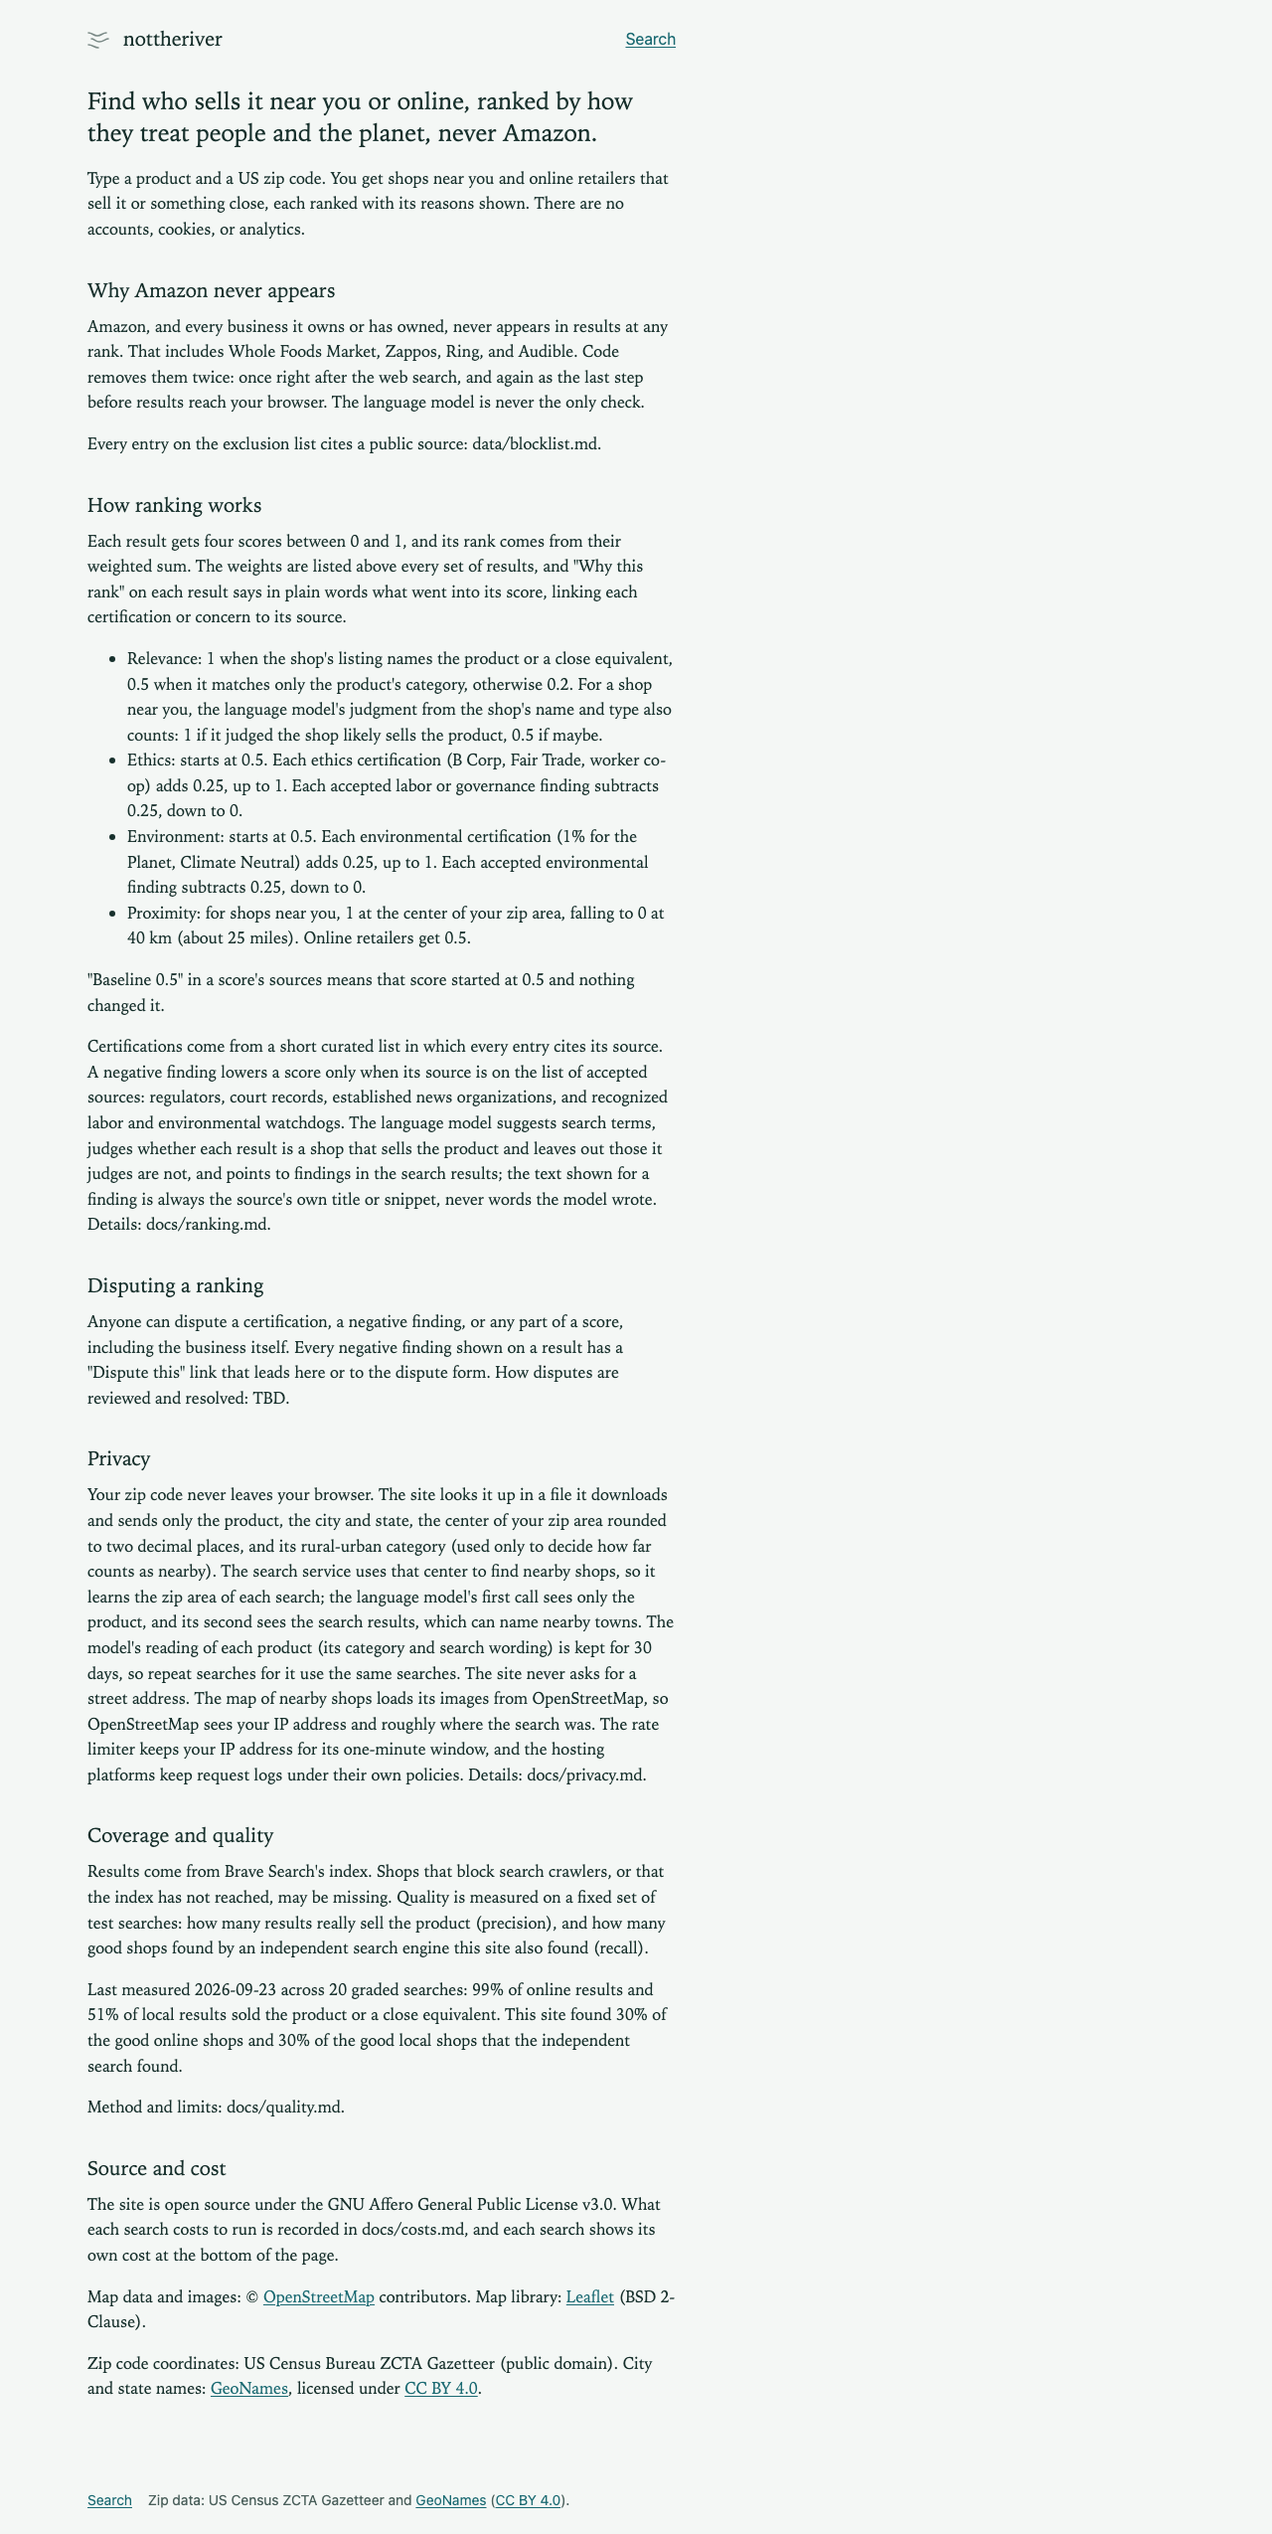
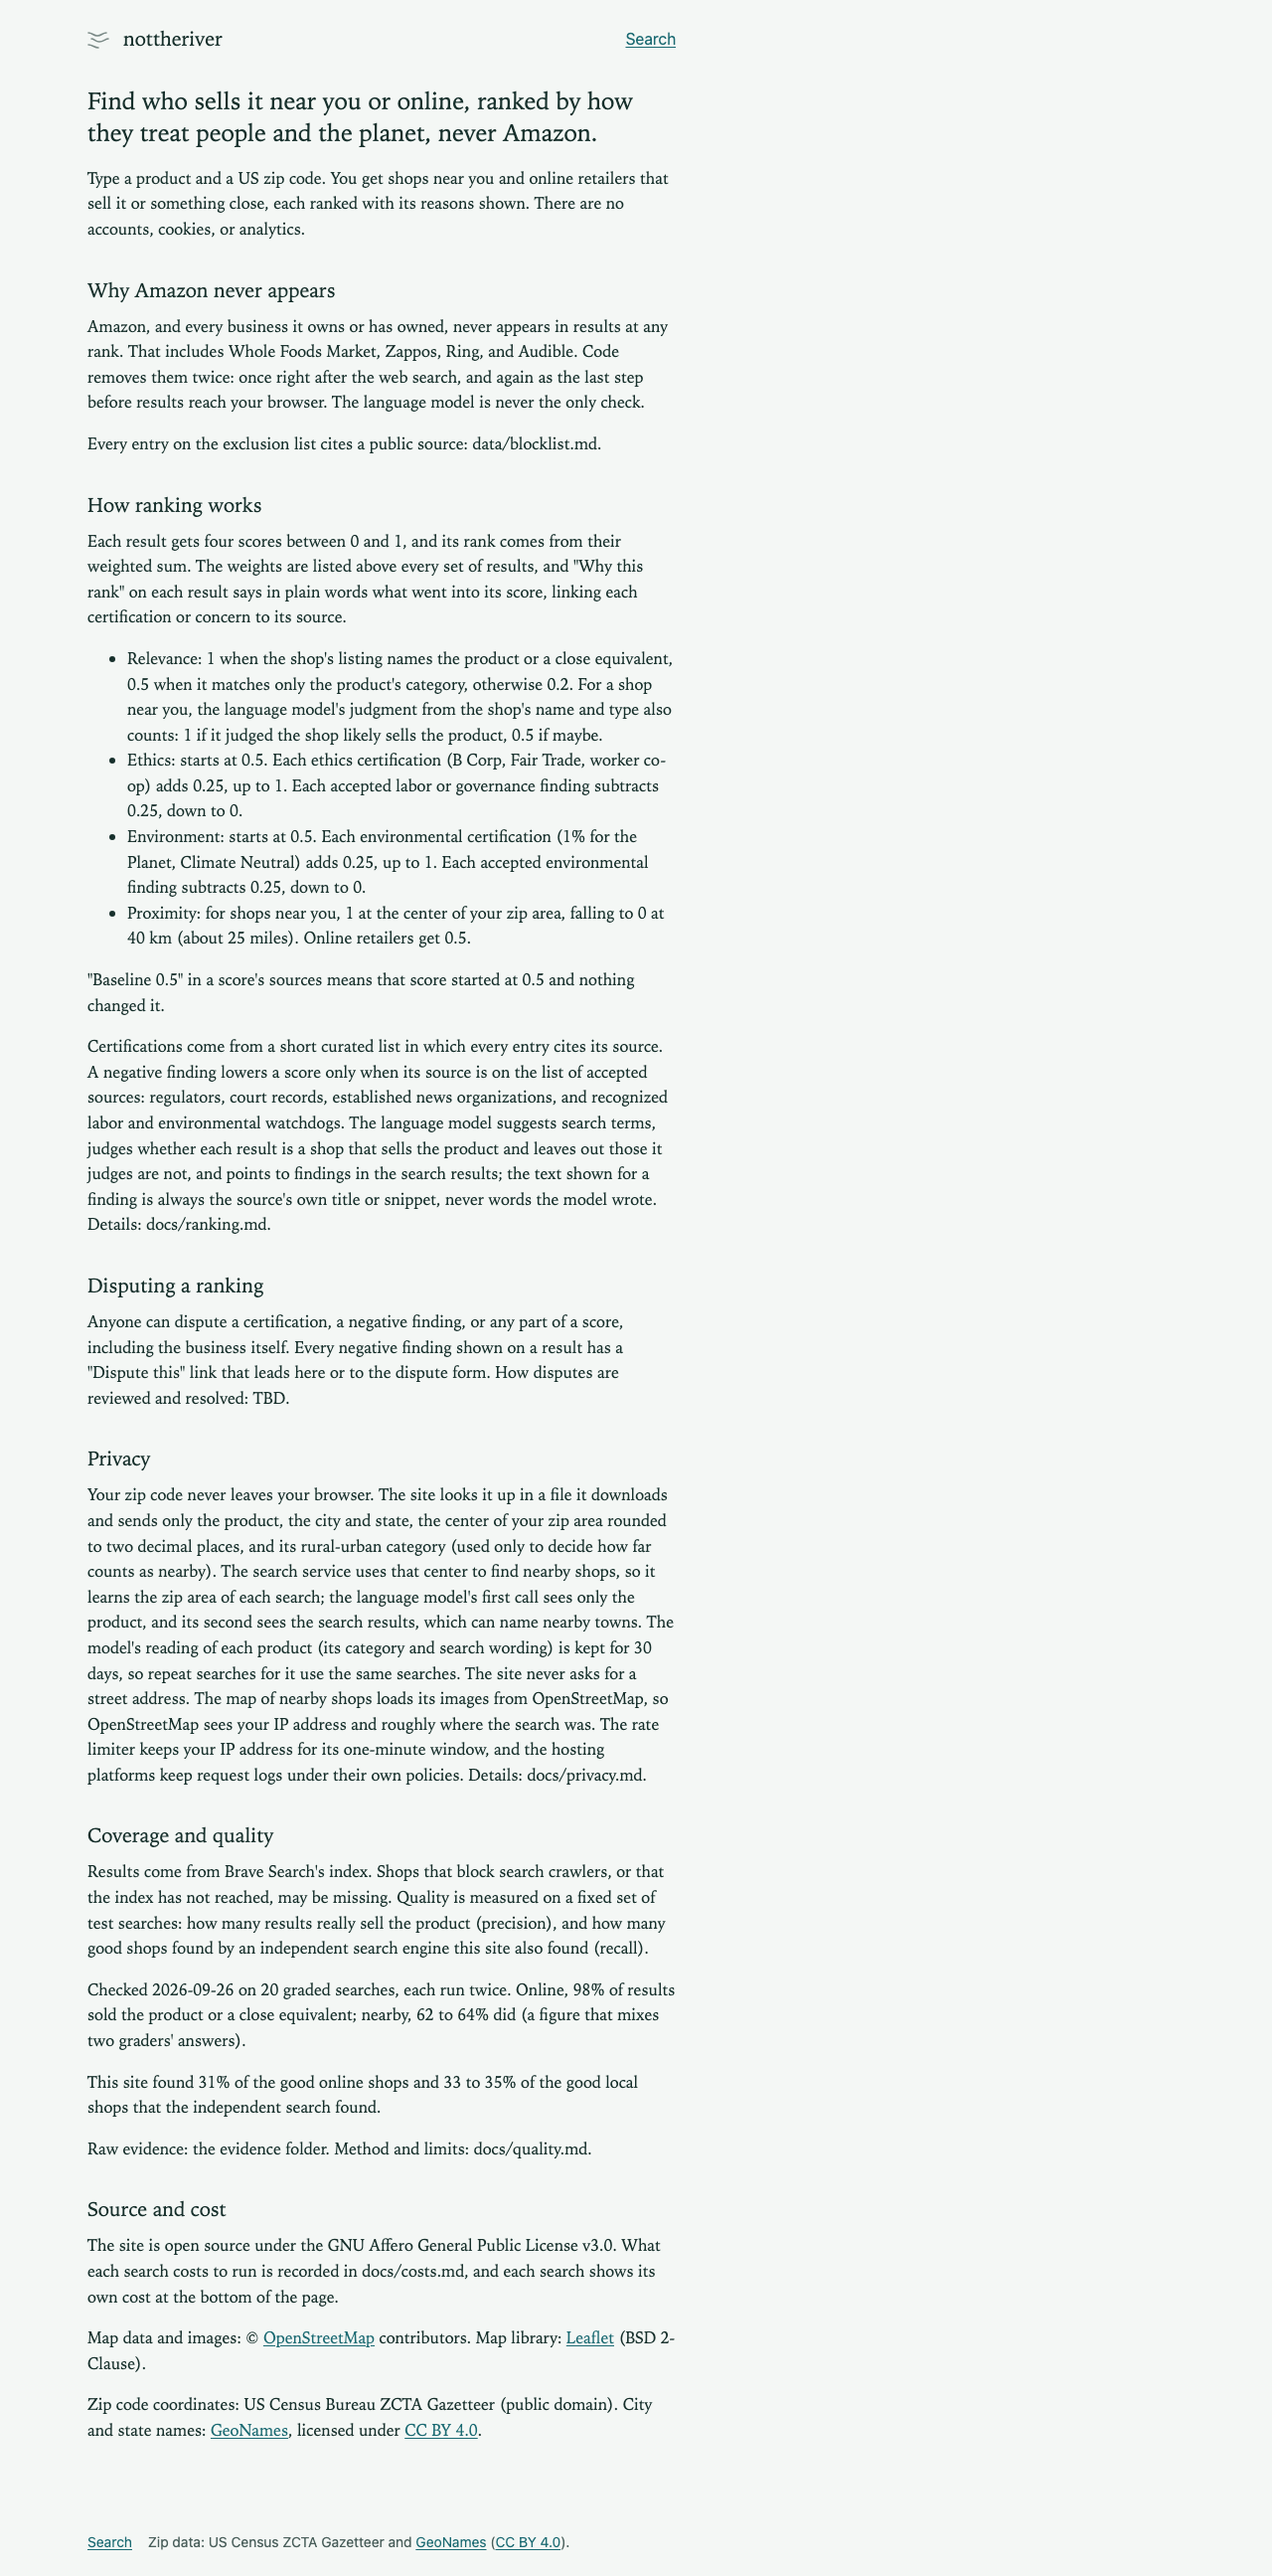
feat(about): short quality summary with a link to the raw evidence
Two plain lines from both eval20-0925 runs (local precision as a range, with a
note that it mixes two graders' answers; recall kept), a "Raw evidence" link to
the run's folder, and an index of every graded run in docs/evidence/quality.

Claude-Session: https://claude.ai/code/session_01RPrsPCj17R4DAFxxExA59E

Changed region(s): [[0.0625, 0.031, 0.5312, 0.9608]]

diff --git a/src/about.ts b/src/about.ts
@@ -1,31 +1,53 @@
 import { disputeUrl, repoUrl, siteName } from './config';
 import quality from './quality.json';
 
-// Fractions in [0, 1] from the latest evaluation run; null until one has run.
+// A figure is a fraction in [0, 1]; a [low, high] pair when two graded runs of the same eval rounded
+// to different percentages (an eval now runs twice, operator ruling 2026-09-26).
+export type Figure = number | [number, number];
+
+// null until an evaluation has run.
 export interface QualityMeasure {
   date: string; // YYYY-MM-DD
   searches: number; // searches graded; a run may grade a sample of those it made
-  precision: { online: number; local: number };
-  recall: { online: number; local: number };
+  precision: { online: Figure; local: Figure };
+  recall: { online: Figure; local: Figure };
+  evidence: string; // this run's evidence folder, e.g. docs/evidence/quality/eval20-0925
 }
 
-const pct = (n: number) => `${Math.round(n * 100)}%`;
+const whole = (n: number) => Math.round(n * 100);
+const fig = (f: Figure) => (Array.isArray(f) ? `${whole(f[0])} to ${whole(f[1])}%` : `${whole(f)}%`);
 
-export function coverageText(measured: QualityMeasure | null): string {
+export function precisionText(measured: QualityMeasure | null): string {
   if (!measured) return 'Not yet measured.';
-  const { date, searches, precision, recall } = measured;
+  const { date, searches } = measured;
+  const { online, local } = measured.precision;
   return (
-    `Last measured ${date} across ${searches} graded searches: ${pct(precision.online)} of online results and ${pct(precision.local)} of local ` +
-    `results sold the product or a close equivalent. This site found ${pct(recall.online)} of the good online ` +
-    `shops and ${pct(recall.local)} of the good local shops that the independent search found.`
+    `Checked ${date} on ${searches} graded searches, each run twice. Online, ${fig(online)} of results sold the product or a close ` +
+    `equivalent; nearby, ${fig(local)} did (a figure that mixes two graders' answers).`
   );
+}
+
+export function recallText(measured: QualityMeasure | null): string {
+  if (!measured) return '';
+  const { online, local } = measured.recall;
+  return `This site found ${fig(online)} of the good online shops and ${fig(local)} of the good local shops that the independent search found.`;
 }
 
 document.title = `About ${siteName}`;
 for (const el of document.querySelectorAll('[data-site-name]')) el.textContent = siteName;
 
+const measured = (quality as { measured: QualityMeasure | null }).measured;
+
 const quote = document.querySelector('[data-quality]');
-if (quote) quote.textContent = coverageText((quality as { measured: QualityMeasure | null }).measured);
+if (quote) quote.textContent = precisionText(measured);
+const recallEl = document.querySelector<HTMLElement>('[data-quality-recall]');
+if (recallEl) {
+  recallEl.textContent = recallText(measured);
+  recallEl.hidden = !measured;
+}
+// The HTML points at the index of all runs; once measured, point at that run's own folder instead.
+const evidenceLink = document.querySelector<HTMLAnchorElement>('[data-evidence-link]');
+if (evidenceLink && measured) evidenceLink.dataset.repoPath = `tree/main/${measured.evidence}`;
 
 // Without a repo URL (dev, e2e) doc references stay plain text and repo-only sentences stay hidden.
 if (repoUrl) {

diff --git a/src/about.test.ts b/src/about.test.ts
@@ -25,9 +25,38 @@ describe('about page', () => {
   });
 
   it('states the measured precision and recall with the date', async () => {
-    await load({ date: '2026-10-01', searches: 20, precision: { online: 0.8, local: 0.625 }, recall: { online: 0.5, local: 0.4 } });
+    await load({ date: '2026-10-01', searches: 20, precision: { online: 0.8, local: 0.625 }, recall: { online: 0.5, local: 0.4 }, evidence: 'docs/evidence/quality/eval20-0925' });
     const text = $('[data-quality]').textContent!;
-    for (const part of ['2026-10-01', '20 graded searches', '80%', '63%', '50%', '40%']) expect(text).toContain(part);
+    for (const part of ['2026-10-01', '20 graded searches', '80%', '63%', "mixes two graders' answers"]) expect(text).toContain(part);
+    const recall = $('[data-quality-recall]').textContent!;
+    for (const part of ['50%', '40%']) expect(recall).toContain(part);
+  });
+
+  it('shows a figure as a range when the two graded runs rounded to different percentages', async () => {
+    await load({
+      date: '2026-09-26', searches: 20,
+      precision: { online: 0.979, local: [0.617, 0.636] }, recall: { online: 0.31, local: [0.326, 0.349] },
+      evidence: 'docs/evidence/quality/eval20-0925',
+    });
+    expect($('[data-quality]').textContent).toContain('62 to 64%');
+    expect($('[data-quality-recall]').textContent).toContain('33 to 35%');
+  });
+
+  it('hides the recall line until an evaluation has run', async () => {
+    await load(null);
+    expect($('[data-quality-recall]').hidden).toBe(true);
+  });
+
+  it('links raw evidence to the measured run\'s own folder', async () => {
+    const repo = 'https://github.com/example/example';
+    await load({ date: '2026-09-26', searches: 20, precision: { online: 0.98, local: 0.6 }, recall: { online: 0.3, local: 0.3 }, evidence: 'docs/evidence/quality/eval20-0925' }, repo);
+    expect($('[data-evidence-link]').getAttribute('href')).toBe(`${repo}/tree/main/docs/evidence/quality/eval20-0925`);
+  });
+
+  it('links raw evidence to the general index before anything has been measured', async () => {
+    const repo = 'https://github.com/example/example';
+    await load(null, repo);
+    expect($('[data-evidence-link]').getAttribute('href')).toBe(`${repo}/tree/main/docs/evidence/quality`);
   });
 
   it('keeps repo links and the dispute form out when no repo URL is configured', async () => {

diff --git a/about.html b/about.html
@@ -50,7 +50,8 @@
 <h2 id="coverage">Coverage and quality</h2>
 <p>Results come from Brave Search's index. Shops that block search crawlers, or that the index has not reached, may be missing. Quality is measured on a fixed set of test searches: how many results really sell the product (precision), and how many good shops found by an independent search engine this site also found (recall).</p>
 <p data-quality>Not yet measured.</p>
-<p>Method and limits: <a data-repo-path="blob/main/docs/quality.md">docs/quality.md</a>.</p>
+<p data-quality-recall hidden></p>
+<p>Raw evidence: <a data-evidence-link data-repo-path="tree/main/docs/evidence/quality">the evidence folder</a>. Method and limits: <a data-repo-path="blob/main/docs/quality.md">docs/quality.md</a>.</p>
 
 <h2 id="source">Source and cost</h2>
 <p><span data-needs-repo hidden>The code is in <a data-repo-path="">the project repository</a>. </span>The site is open source under the GNU Affero General Public License v3.0. What each search costs to run is recorded in <a data-repo-path="blob/main/docs/costs.md">docs/costs.md</a>, and each search shows its own cost at the bottom of the page.</p>

diff --git a/docs/evidence/quality/README.md b/docs/evidence/quality/README.md
@@ -1,0 +1,14 @@
+# Evaluation runs
+
+One row per graded run, newest first. Figures are each run's own `report.json`; a run's own folder has the raw responses and grades behind it. Prose write-ups, method notes and limitations are in [`docs/quality.md`](../../quality.md).
+
+| Date | Run (folder / report) | What changed in the pipeline | Searches graded | Online precision | Local precision | Local recall |
+|---|---|---|---|---|---|---|
+| 2026-09-26 | [eval20-0925/run2](eval20-0925/run2/) ([report](eval20-0925/run2/report.json)) | Second run of the wording-fix rerun, about an hour later | 20 | 98% (187 of 191) | 62% (95 of 154; 20 not judgeable) | 35% (30 of 86) |
+| 2026-09-26 | [eval20-0925](eval20-0925/) ([report](eval20-0925/report.json)) | Local searches always end in "store"; the model's product reading is cached | 20 | 98% (188 of 192) | 64% (96 of 151; 19 not judgeable) | 33% (28 of 86) |
+| 2026-09-24 | [eval20-0924](eval20-0924/) ([report](eval20-0924/report.json)) | Distance groups (nearby, rural, "Farther away"); local relevance from the classifier's sells judgment | 20 | 98% (184 of 188) | 59% (90 of 153; 18 not judgeable) | 28% (24 of 86) |
+| 2026-09-23 | [eval60](eval60/) ([report](eval60/report.json)) | Store-type filter; first full 60-search run, 20 graded (stratified sample) | 20 | 99% (189 of 191) | 51% (72 of 140; 45 not judgeable) | 30% (26 of 86) |
+| 2026-09-23 | [after3](after3/) ([report](after3/report.json)) | Local results fix (pilot subset of 6 searches) | 6 | 100% (55 of 55) | 38% (17 of 45; 10 not judgeable) | 26% (6 of 23) |
+| 2026-09-23 | [after](after/) ([report](after/report.json)) | Retailer filtering (pilot subset of 6 searches) | 6 | 100% (57 of 57) | 47% (18 of 38; 10 not judgeable) | 26% (6 of 23) |
+
+The two 9-25 runs' local precision above uses the non-existent-shop rule (operator ruling, 2026-09-26): a local shop confirmed not to exist counts as bad even when whether it sells the product is unknown. Earlier rows keep the figures as originally reported; `docs/quality.md` notes where the rule would move them.

diff --git a/docs/plans/about-quality-summary.md b/docs/plans/about-quality-summary.md
@@ -1,6 +1,6 @@
 # Plan: short quality summary on the About page, raw evidence one link away
 
-Status: planned 2026-09-24, not started. Operator direction: keep collecting evidence that anyone can inspect in the repo; the About page summarizes it with much less detail; a link takes readers to the raw evidence.
+Status: steps 1-5 done 2026-09-26 (evidence index at `docs/evidence/quality/README.md`; `src/quality.json` carries `evidence`; About page shows a shorter two-line summary with a "Raw evidence" link; headline refreshed from `eval20-0925`, both runs). Committed, not pushed (operator holds push). Operator direction: keep collecting evidence that anyone can inspect in the repo; the About page summarizes it with much less detail; a link takes readers to the raw evidence.
 
 ## Today
 
